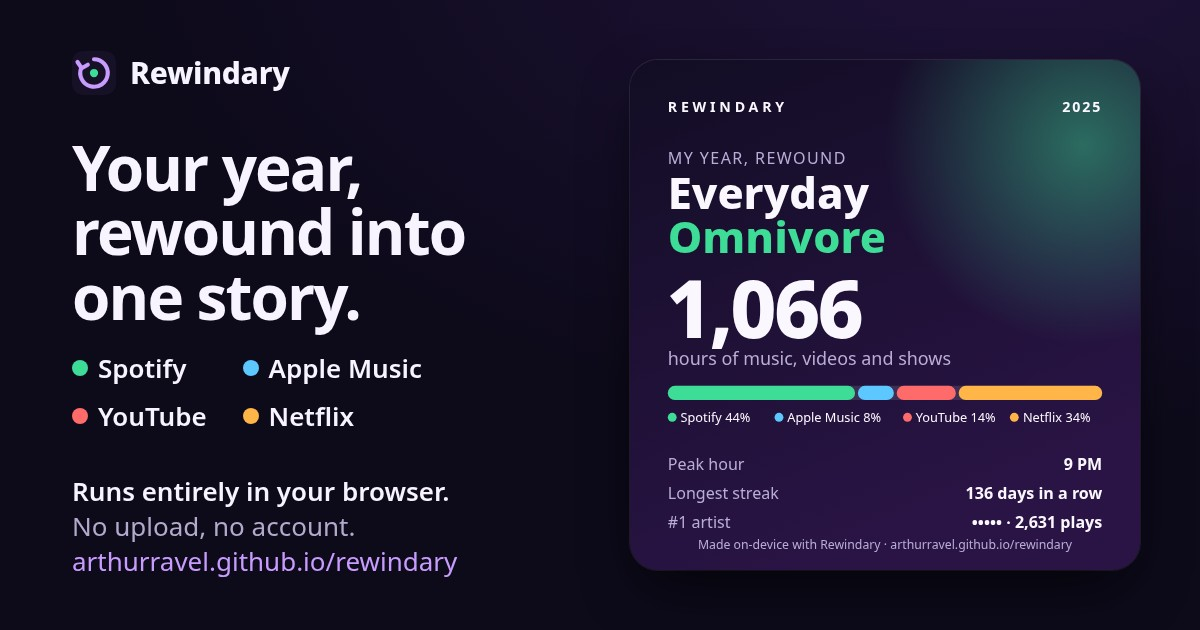
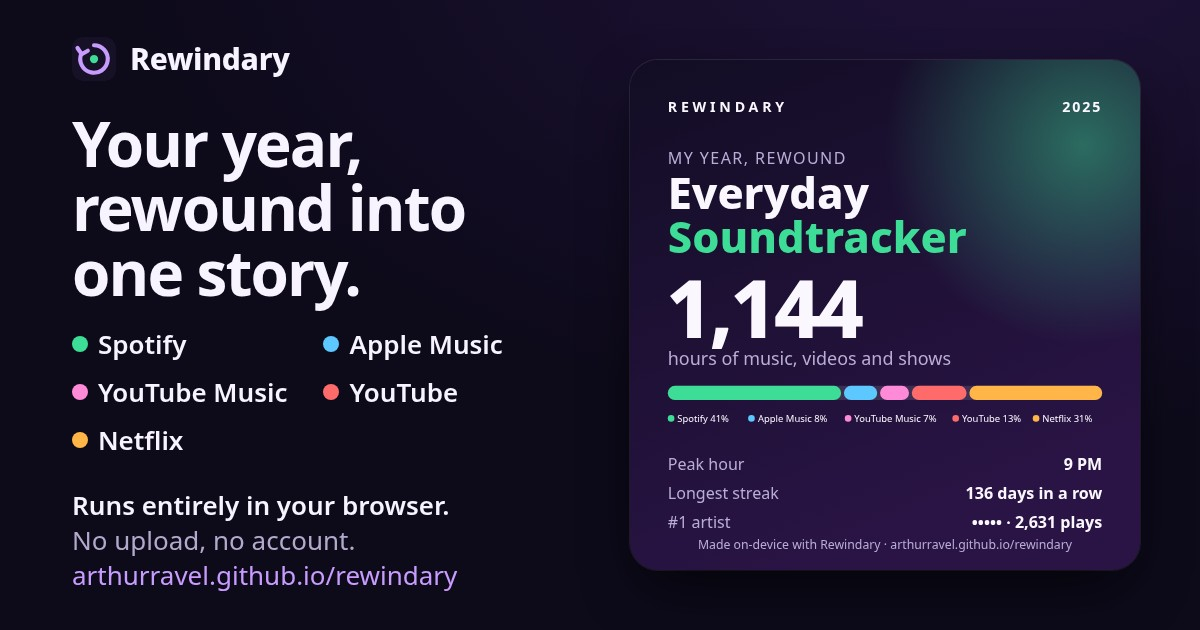
fix(home): name YouTube Music on the start page and link preview
The start-page heading and the og.jpg legend still listed four services
after YouTube Music became its own source, contradicting the README and
meta description. Both now name all five in product order; two-word
names keep a non-breaking space so a 320 px phone never splits them.
A new test keeps the heading, metadata, README tagline and preview
legend in step with SOURCE_LABEL/SOURCE_COLOR. og.jpg is re-captured
with `pnpm og-image` (byte-identical across two runs).

diff --git a/tests/public-sources.test.ts b/tests/public-sources.test.ts
@@ -1,0 +1,30 @@
+import { readFileSync } from 'node:fs';
+import { join } from 'node:path';
+import { expect, it } from 'vitest';
+import { SOURCE_COLOR } from '../src/charts';
+import { SOURCE_LABEL, SOURCE_ORDER } from '../src/model';
+
+// The services a visitor brings exports from. Google Search rides along in the Takeout and is never
+// listed as a headline source, so it is left out on purpose.
+const LISTED = SOURCE_ORDER.filter((s) => s !== 'google');
+const ROOT = join(import.meta.dirname, '..');
+const read = (p: string) => readFileSync(join(ROOT, p), 'utf8');
+const sentence = (names: string[]) => `${names.slice(0, -1).join(', ')} and ${names.at(-1)}`;
+const expected = sentence(LISTED.map((s) => SOURCE_LABEL[s]));
+
+it('names every source, in product order, wherever the start page, README and metadata list them', () => {
+  expect(expected).toBe('Spotify, Apple Music, YouTube Music, YouTube and Netflix');
+  const surfaces: Record<string, string> = {
+    // The heading keeps two-word names on one line with &nbsp;, so a phone never splits "Apple / Music".
+    'start page heading': read('src/ui/Home.tsx').match(/<h1[^>]*>([\s\S]*?)<\/h1>/)![1].replace(/&nbsp;/g, ' '),
+    'meta description': read('index.html').match(/<meta name="description" content="([^"]*)"/)![1],
+    'package description': JSON.parse(read('package.json')).description,
+    'README tagline': read('README.md').match(/^\*\*Your .*\*\*$/m)![0],
+  };
+  for (const [where, text] of Object.entries(surfaces)) expect(text, where).toContain(expected);
+});
+
+it('draws the link-preview legend with the app’s own names and colours', () => {
+  const legend = read('scripts/og-image.mjs').match(/const sources = (\[.*\]);/)![1];
+  expect(JSON.parse(legend.replace(/'/g, '"'))).toEqual(LISTED.map((s) => [SOURCE_LABEL[s], SOURCE_COLOR[s]]));
+});

diff --git a/src/ui/Home.tsx b/src/ui/Home.tsx
@@ -14,7 +14,7 @@ export function Home({ onFiles, dragging, onDemo, status, error }: {
     <main class="home">
       <header class="hero">
         <p class="brand"><Mark />Rewindary</p>
-        <h1 tabIndex={-1} data-stage-focus>Your year, rewound —<br /><span class="grad">Spotify, Apple Music, YouTube and Netflix</span> in one story.</h1>
+        <h1 tabIndex={-1} data-stage-focus>Your year, rewound —<br /><span class="grad">Spotify, Apple&nbsp;Music, YouTube&nbsp;Music, YouTube and Netflix</span> in one story.</h1>
         <p class="lead">Drop your official data exports and get an animated year-in-review plus a share card that hides names by default. Everything is computed on this device: no upload, no account, no tracking.</p>
       </header>
       <label class={`drop${dragging ? ' drag' : ''}${status ? ' busy' : ''}`}>
